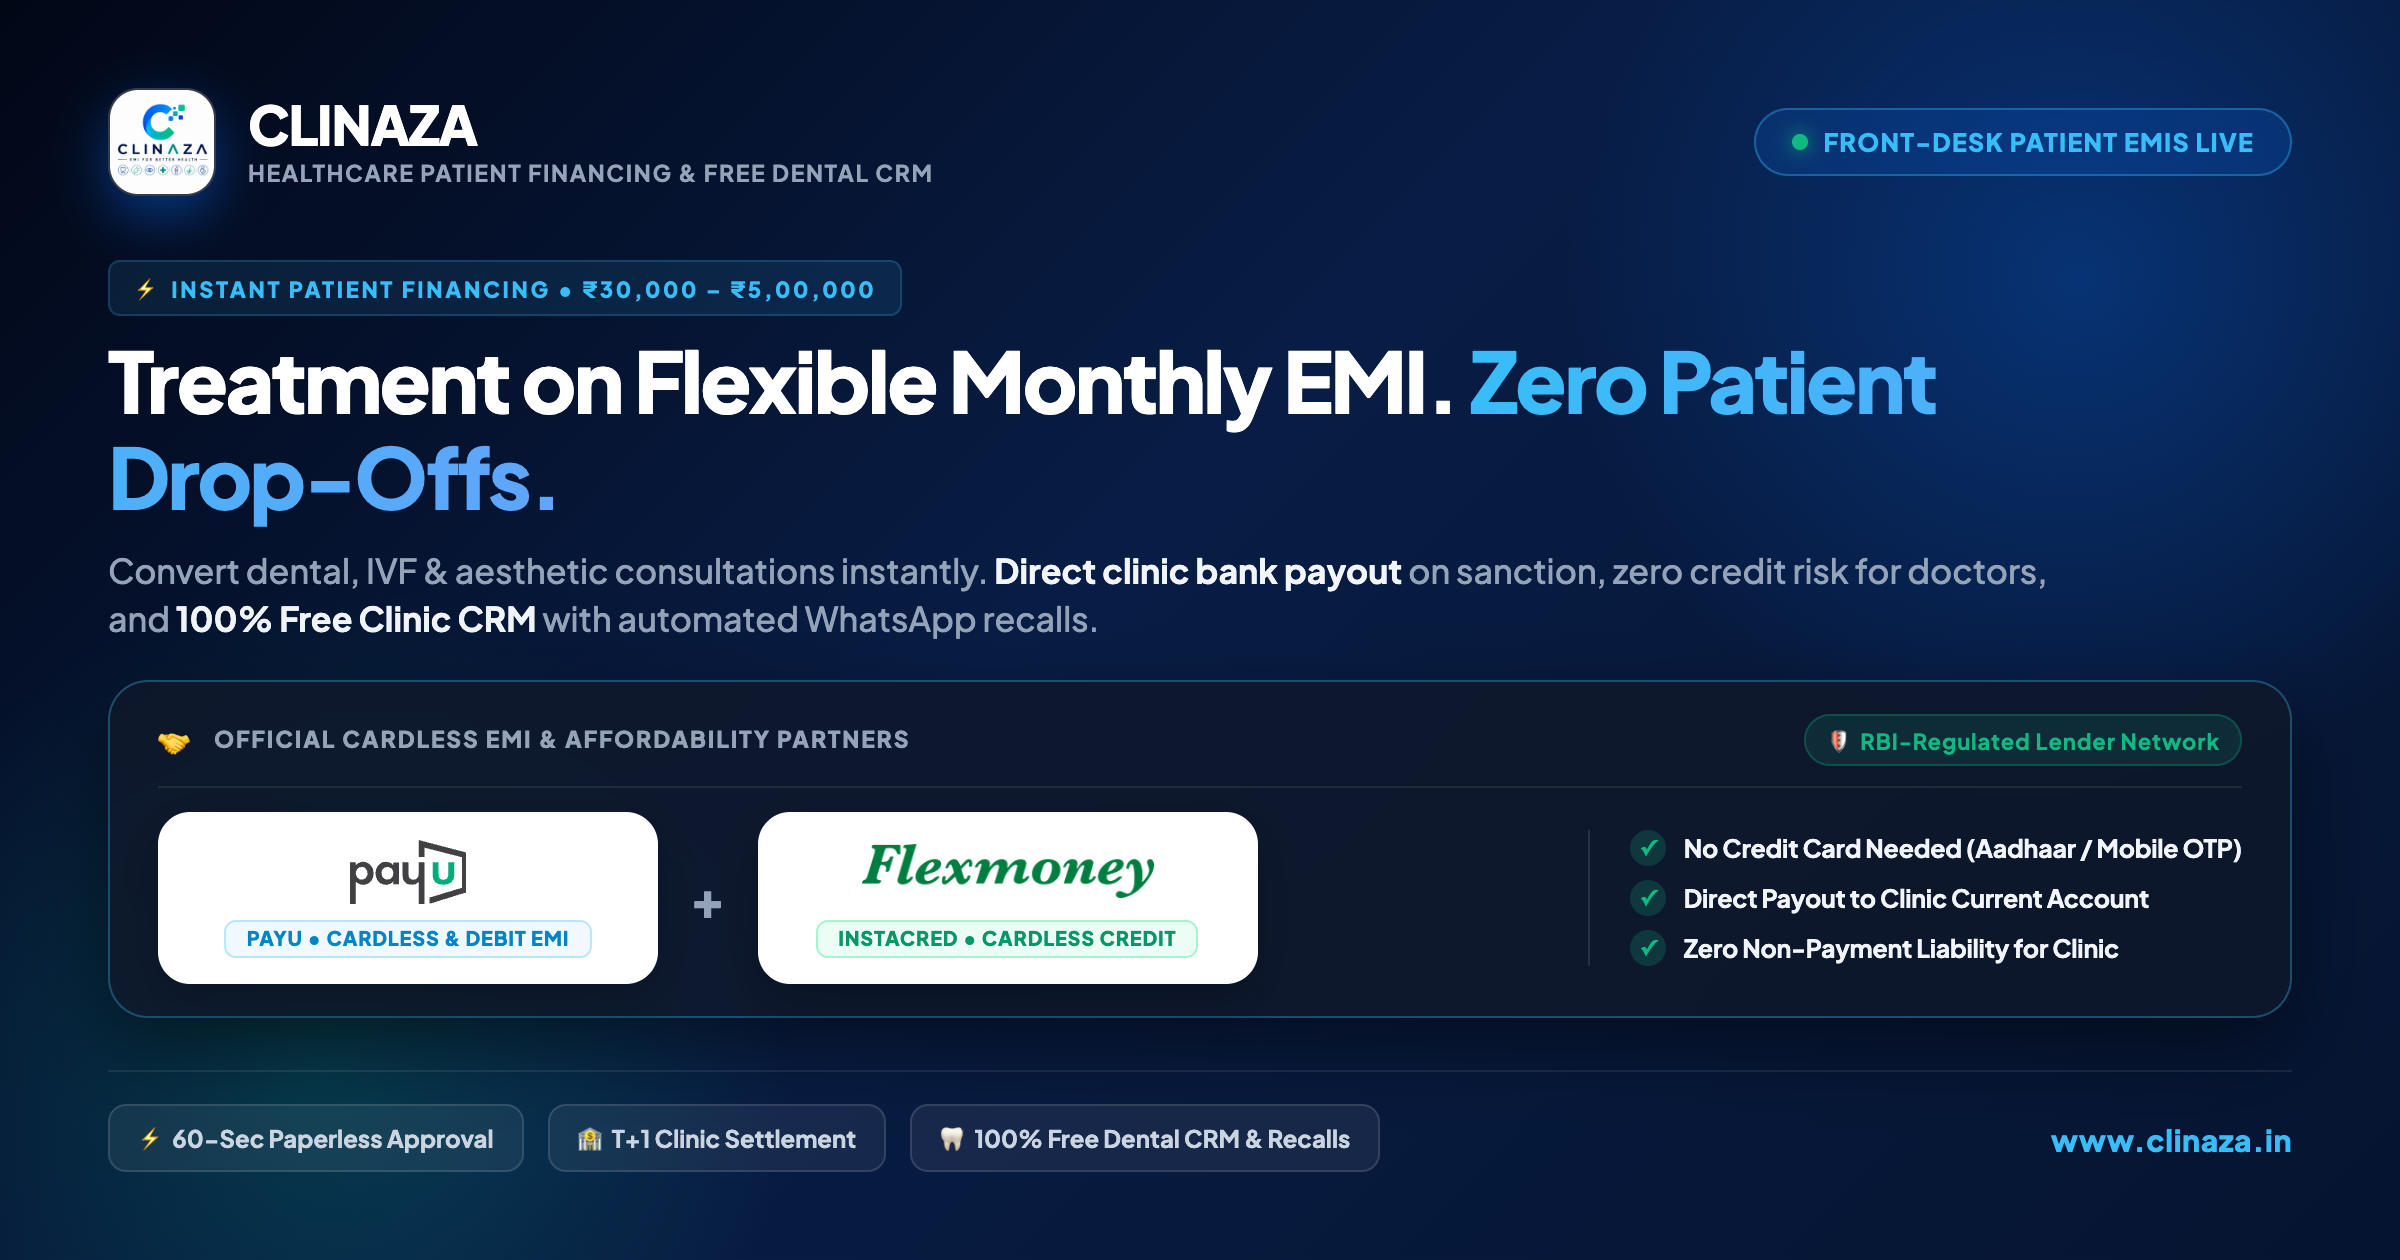
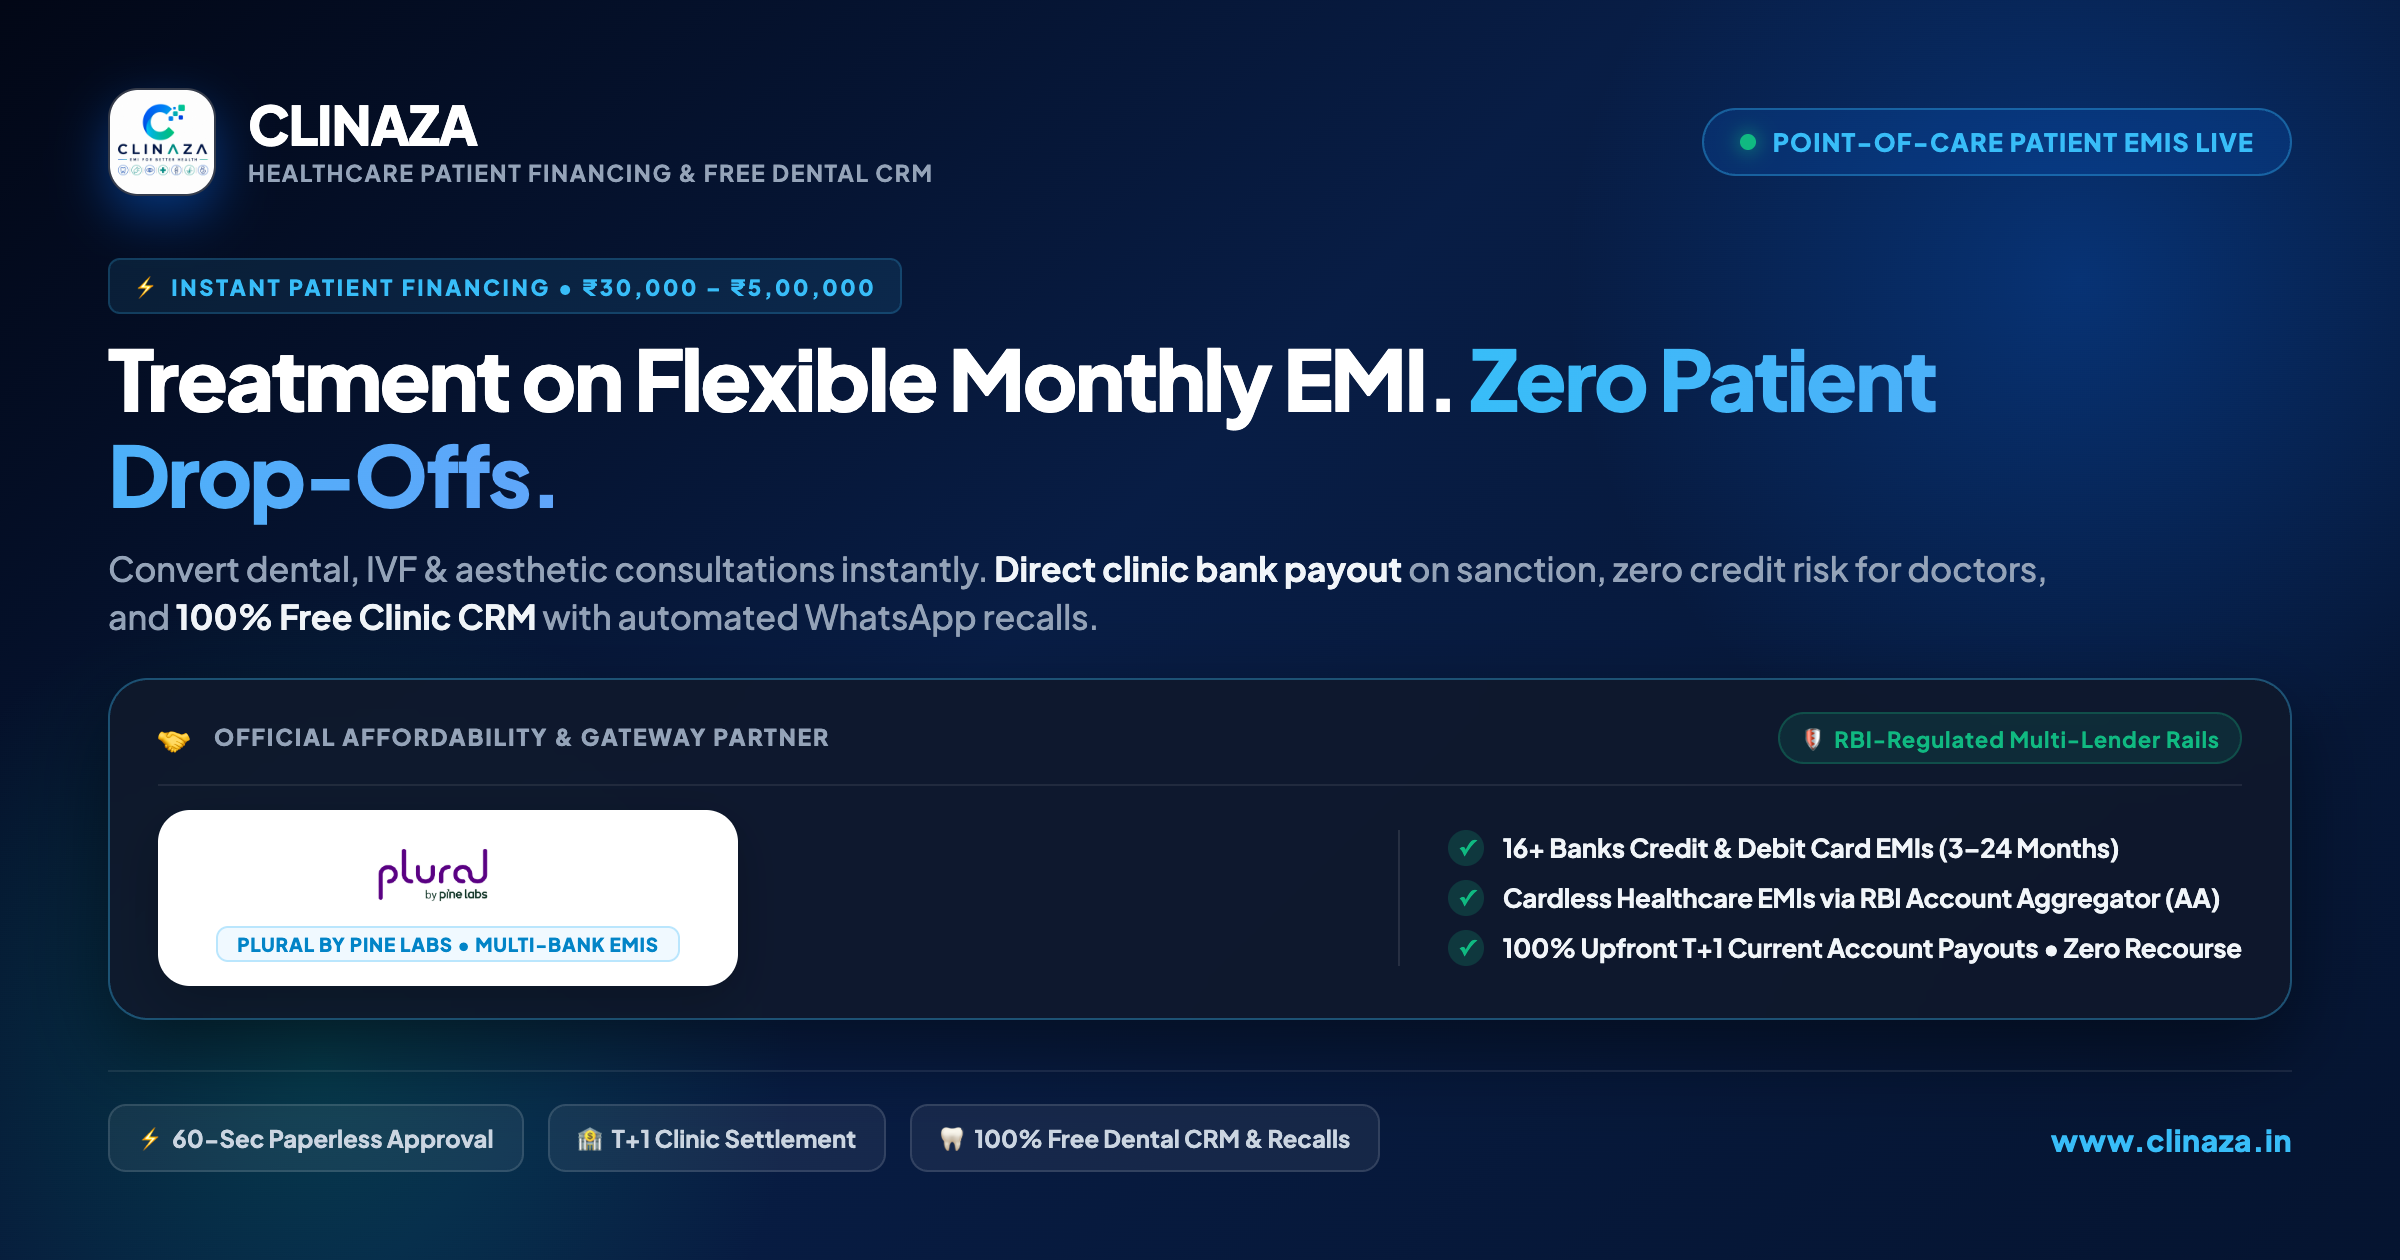
fix(seo): remove PayU and Flexmoney from link thumbnail and replace with Plural by Pine Labs

diff --git a/api/meta.js b/api/meta.js
@@ -16,7 +16,7 @@ try {
 const STATIC_ROUTES = {
   '/': {
     title: 'Clinaza — Healthcare EMIs & Free Dental CRM India',
-    desc: 'Offer instant point-of-care patient EMI financing (₹30K–₹5L) with PayU & Flexmoney cardless EMI partners. Plus, 100% Free Dental Clinic CRM software.',
+    desc: 'Offer instant point-of-care patient EMI financing (₹30K–₹5L) powered by Plural by Pine Labs & multi-bank cardless EMI partners. Plus, 100% Free Dental Clinic CRM software.',
     h1: 'Dental Treatment on EMI. Zero Patient Drop-Offs.'
   },
   '/tools': {
